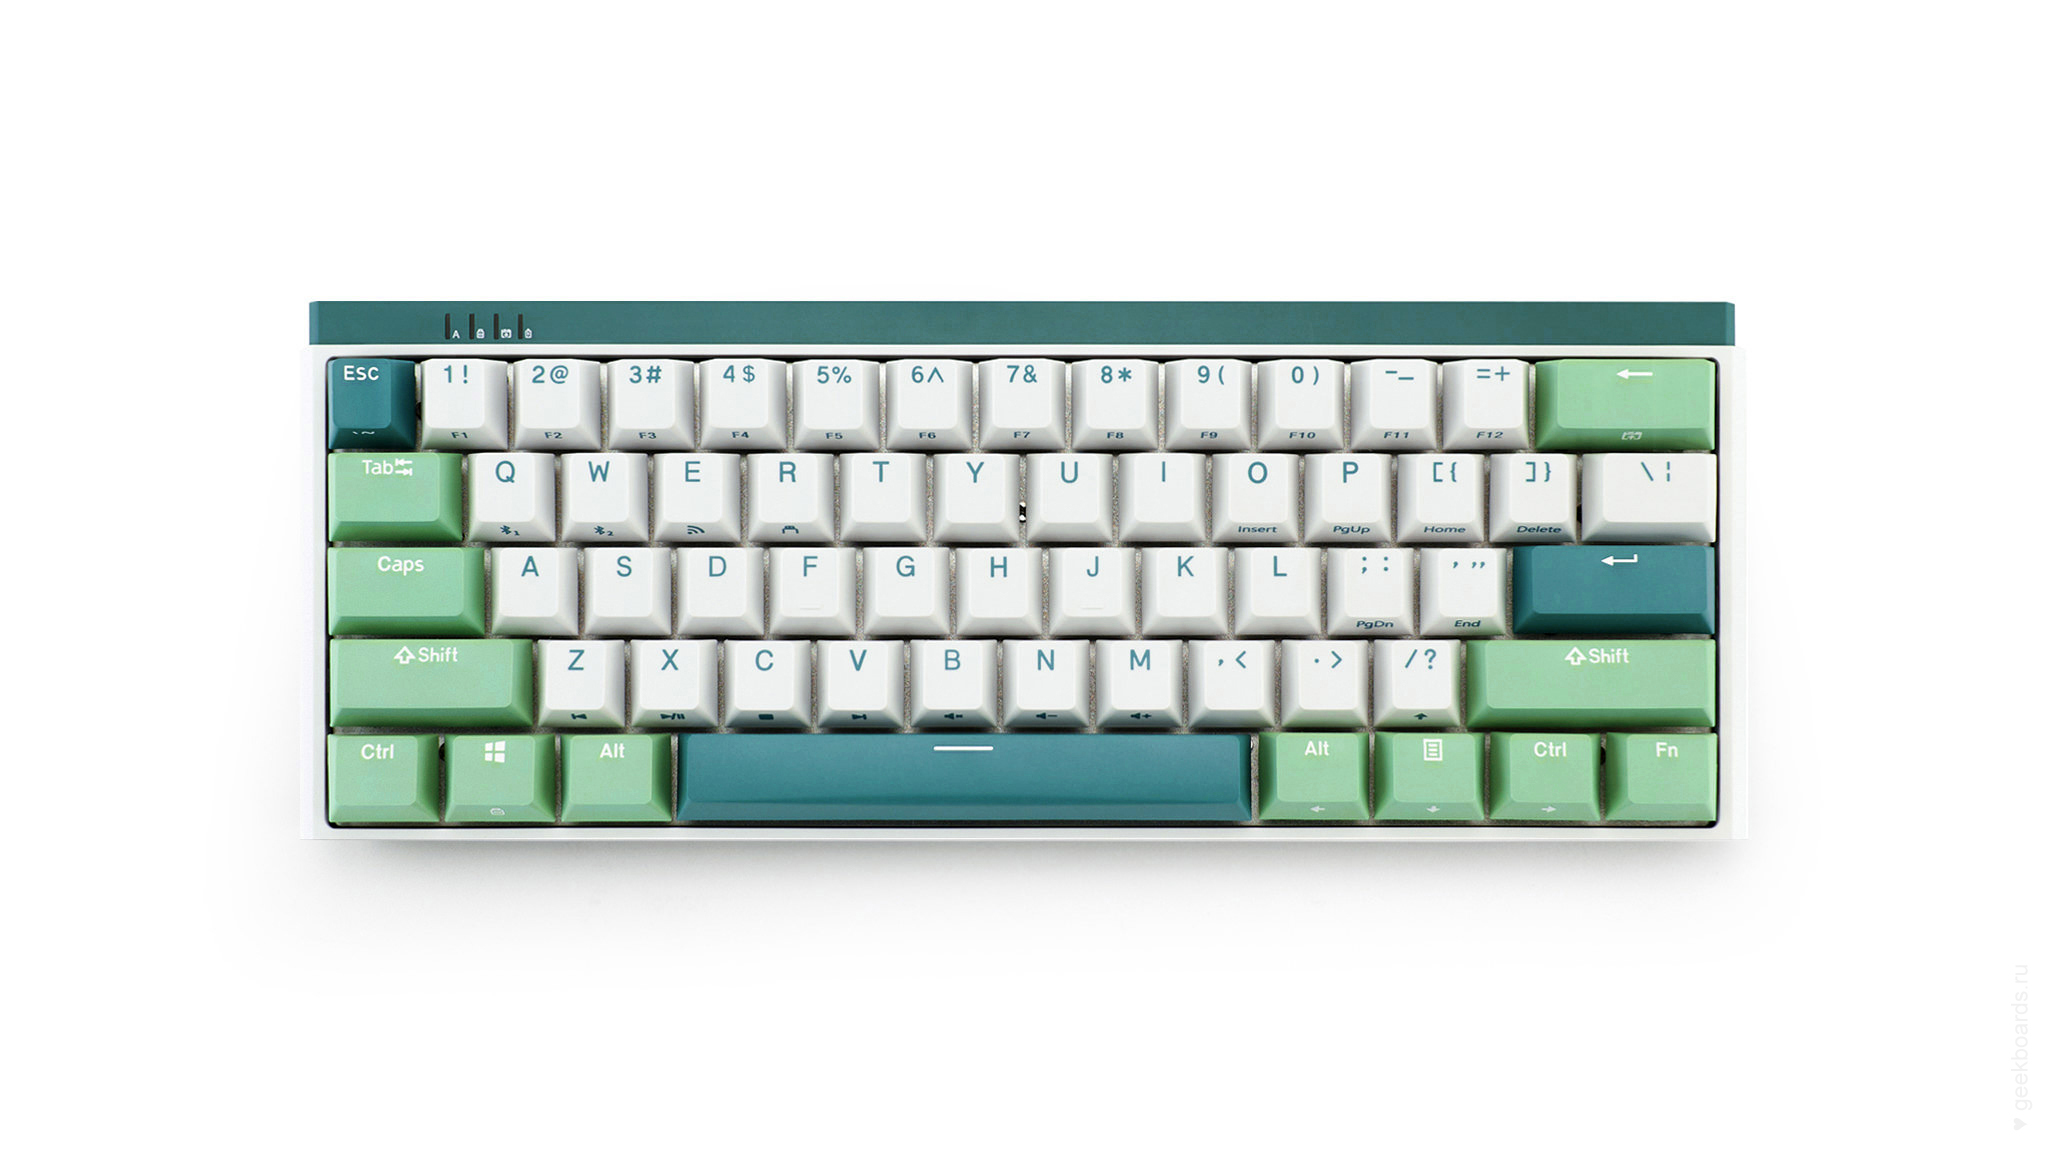
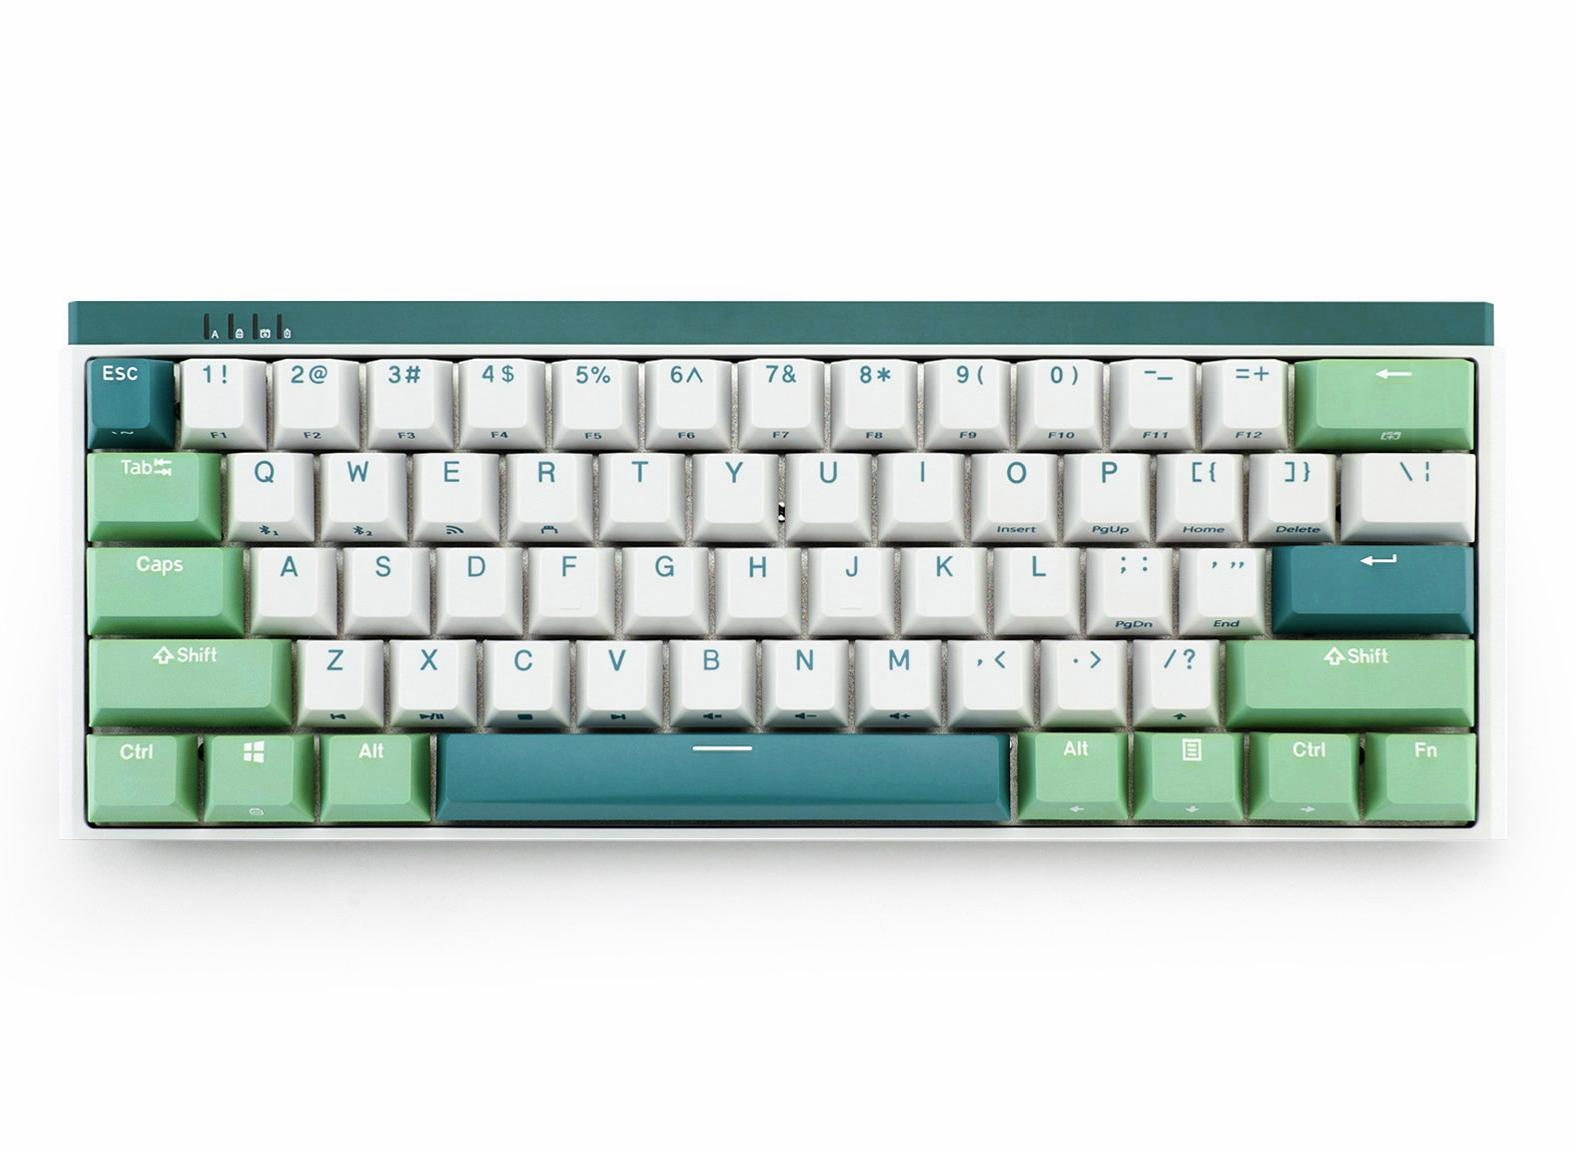
fixed the product picture

Changed region(s): [[0.0311, 0.25, 0.9638, 0.7812]]

diff --git a/data/keyboards.ts b/data/keyboards.ts
@@ -25,7 +25,7 @@ const keyboardData: KeyboardsData = {
             price: 11380,
             cur: "₽",
             desc: "K330W — первая массовая клавиатура на переключателях Gateron CAP V2 Crystal. Имеет 2 беспроводных режима и работает до 8 месяцев без подзарядки.",
-            pic: "/Durgod_K330W.jpg",
+            pic: "/Durgod_K330W_Mint.jpg",
         },
         {
             productName: "Leopold FC750R BT White/Gray",
